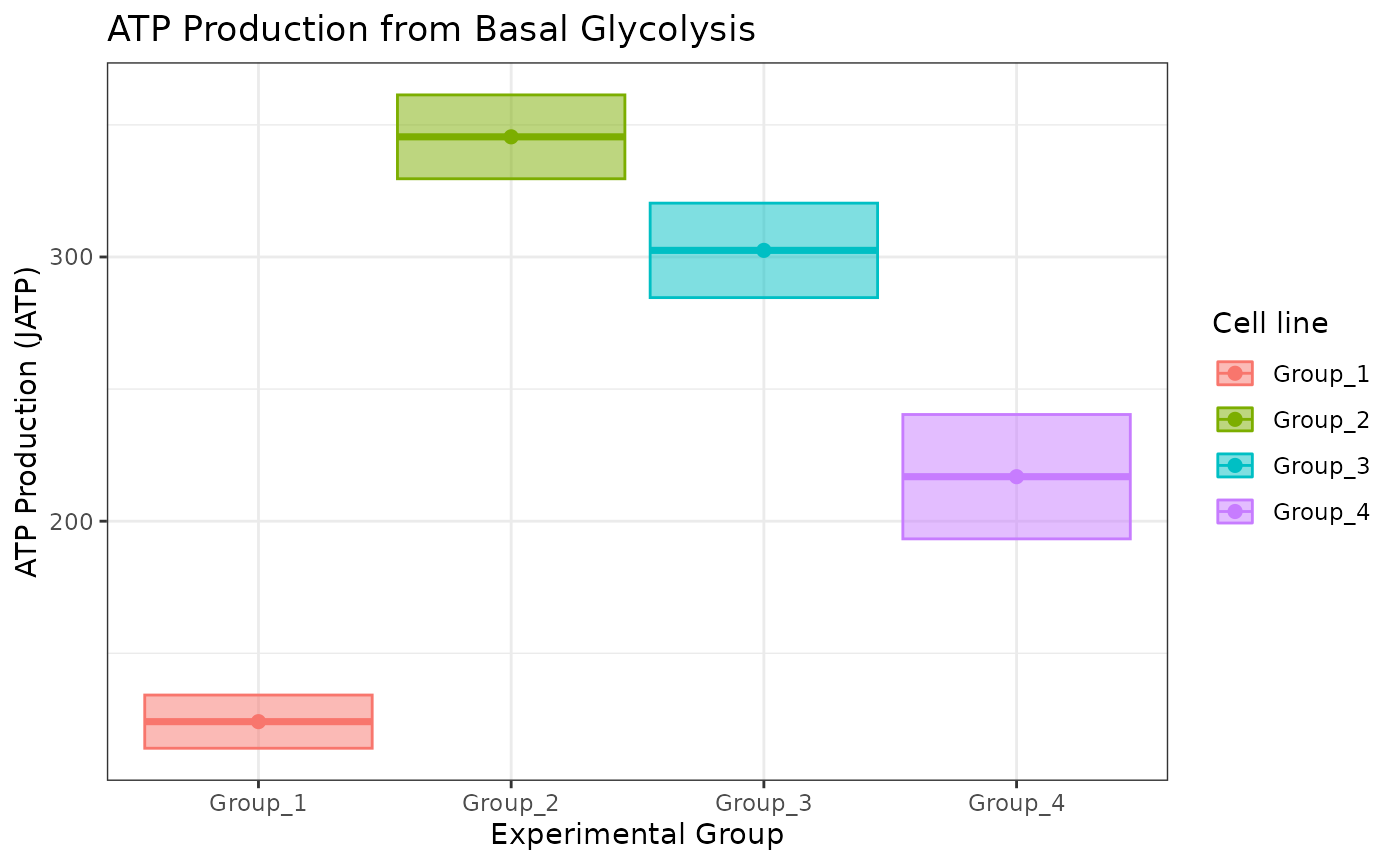
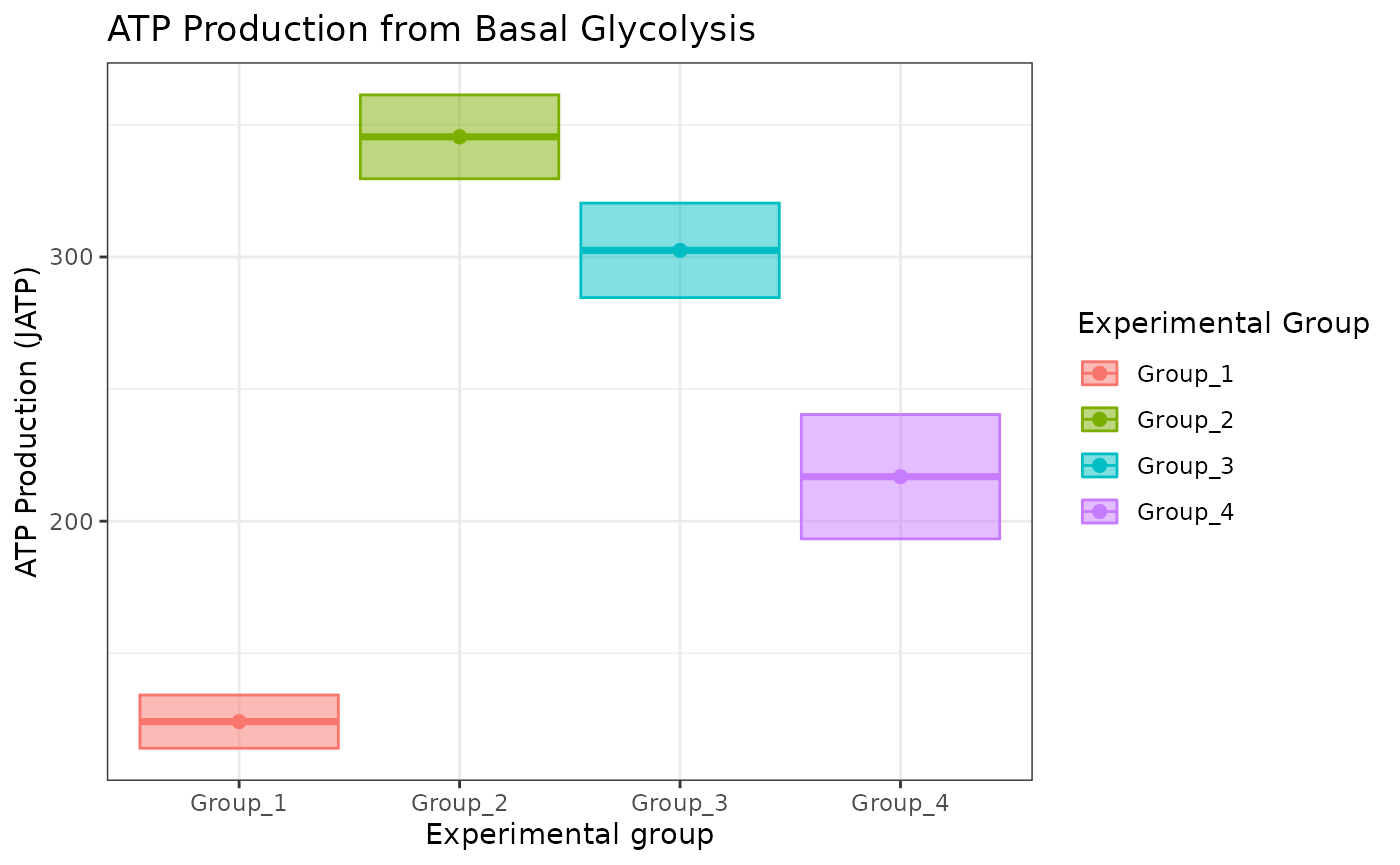
Deploying to gh-pages from @ jamespeapen/ceas@48e0c2bb76270c7f8222b87823735ef20e5b8fb0 🚀

diff --git a/dev/articles/ceas.html b/dev/articles/ceas.html
@@ -215,7 +215,7 @@ ceas.</p>
 <th align="right">OCR</th>
 <th align="right">ECAR</th>
 <th align="right">PER</th>
-<th align="left">cell_line</th>
+<th align="left">exp_group</th>
 <th align="left">assay_type</th>
 <th align="right">replicate</th>
 </tr></thead>
@@ -542,36 +542,33 @@ own custom plotting functions on those datasets.</p>
 <code class="sourceCode R"><span><span class="va">rate_plot</span></span></code></pre></div>
 <div class="sourceCode" id="cb22"><pre class="downlit sourceCode r">
 <code class="sourceCode R"><span><span class="kw">function</span> <span class="op">(</span><span class="va">seahorse_rates</span>, <span class="va">measure</span> <span class="op">=</span> <span class="st">"OCR"</span>, <span class="va">error_bar</span> <span class="op">=</span> <span class="st">"ci"</span>, </span>
-<span>    <span class="va">conf_int</span> <span class="op">=</span> <span class="fl">0.95</span><span class="op">)</span> </span>
+<span>    <span class="va">conf_int</span> <span class="op">=</span> <span class="fl">0.95</span>, <span class="va">group_label</span> <span class="op">=</span> <span class="st">"Experimental group"</span><span class="op">)</span> </span>
 <span><span class="op">{</span></span>
-<span>    <span class="kw">if</span> <span class="op">(</span><span class="op">!</span><span class="va">measure</span> <span class="op"><a href="https://rdrr.io/r/base/match.html" class="external-link">%in%</a></span> <span class="fu"><a href="https://rdrr.io/r/base/c.html" class="external-link">c</a></span><span class="op">(</span><span class="st">"OCR"</span>, <span class="st">"ECAR"</span><span class="op">)</span><span class="op">)</span> <span class="op">{</span></span>
-<span>        <span class="kw"><a href="https://rdrr.io/r/base/stop.html" class="external-link">stop</a></span><span class="op">(</span><span class="st">"'measure' should be 'OCR' or 'ECAR'"</span><span class="op">)</span></span>
-<span>    <span class="op">}</span></span>
-<span>    <span class="kw">if</span> <span class="op">(</span><span class="op">!</span><span class="va">error_bar</span> <span class="op"><a href="https://rdrr.io/r/base/match.html" class="external-link">%in%</a></span> <span class="fu"><a href="https://rdrr.io/r/base/c.html" class="external-link">c</a></span><span class="op">(</span><span class="st">"sd"</span>, <span class="st">"ci"</span><span class="op">)</span><span class="op">)</span> <span class="op">{</span></span>
-<span>        <span class="kw"><a href="https://rdrr.io/r/base/stop.html" class="external-link">stop</a></span><span class="op">(</span><span class="st">"'error_bar' should be 'sd' or 'ci'"</span><span class="op">)</span></span>
-<span>    <span class="op">}</span></span>
-<span>    <span class="kw">if</span> <span class="op">(</span><span class="va">conf_int</span> <span class="op">&lt;</span> <span class="fl">0</span> <span class="op">||</span> <span class="va">conf_int</span> <span class="op">&gt;</span> <span class="fl">1</span><span class="op">)</span> <span class="op">{</span></span>
-<span>        <span class="kw"><a href="https://rdrr.io/r/base/stop.html" class="external-link">stop</a></span><span class="op">(</span><span class="st">"'conf_int' should be between 0 and 1"</span><span class="op">)</span></span>
-<span>    <span class="op">}</span></span>
+<span>    <span class="fu"><a href="https://rdrr.io/r/base/stopifnot.html" class="external-link">stopifnot</a></span><span class="op">(</span>`'measure' should be 'OCR' or 'ECAR'` <span class="op">=</span> <span class="va">measure</span> <span class="op"><a href="https://rdrr.io/r/base/match.html" class="external-link">%in%</a></span> </span>
+<span>        <span class="fu"><a href="https://rdrr.io/r/base/c.html" class="external-link">c</a></span><span class="op">(</span><span class="st">"OCR"</span>, <span class="st">"ECAR"</span><span class="op">)</span><span class="op">)</span></span>
+<span>    <span class="fu"><a href="https://rdrr.io/r/base/stopifnot.html" class="external-link">stopifnot</a></span><span class="op">(</span>`'error_bar' should be 'sd' or 'ci'` <span class="op">=</span> <span class="va">error_bar</span> <span class="op"><a href="https://rdrr.io/r/base/match.html" class="external-link">%in%</a></span> </span>
+<span>        <span class="fu"><a href="https://rdrr.io/r/base/c.html" class="external-link">c</a></span><span class="op">(</span><span class="st">"sd"</span>, <span class="st">"ci"</span><span class="op">)</span><span class="op">)</span></span>
+<span>    <span class="fu"><a href="https://rdrr.io/r/base/stopifnot.html" class="external-link">stopifnot</a></span><span class="op">(</span>`'conf_int' should be between 0 and 1` <span class="op">=</span> <span class="va">conf_int</span> <span class="op">&gt;</span> </span>
+<span>        <span class="fl">0</span> <span class="op">&amp;&amp;</span> <span class="va">conf_int</span> <span class="op">&lt;</span> <span class="fl">1</span><span class="op">)</span></span>
 <span>    <span class="va">data_cols</span> <span class="op">&lt;-</span> <span class="fu"><a href="https://rdrr.io/r/base/c.html" class="external-link">c</a></span><span class="op">(</span><span class="st">"Measurement"</span>, <span class="st">"Well"</span>, <span class="st">"OCR"</span>, <span class="st">"ECAR"</span>, <span class="st">"PER"</span>, </span>
-<span>        <span class="st">"cell_line"</span>, <span class="st">"assay_type"</span>, <span class="st">"replicate"</span><span class="op">)</span></span>
+<span>        <span class="st">"exp_group"</span>, <span class="st">"assay_type"</span>, <span class="st">"replicate"</span><span class="op">)</span></span>
 <span>    <span class="va">missing_cols</span> <span class="op">&lt;-</span> <span class="fu"><a href="https://rdrr.io/r/base/sets.html" class="external-link">setdiff</a></span><span class="op">(</span><span class="va">data_cols</span>, <span class="fu"><a href="https://rdrr.io/r/base/colnames.html" class="external-link">colnames</a></span><span class="op">(</span><span class="va">seahorse_rates</span><span class="op">)</span><span class="op">)</span></span>
 <span>    <span class="kw">if</span> <span class="op">(</span><span class="fu"><a href="https://rdrr.io/r/base/length.html" class="external-link">length</a></span><span class="op">(</span><span class="va">missing_cols</span><span class="op">)</span> <span class="op">!=</span> <span class="fl">0</span><span class="op">)</span> <span class="op">{</span></span>
 <span>        <span class="kw"><a href="https://rdrr.io/r/base/stop.html" class="external-link">stop</a></span><span class="op">(</span><span class="fu"><a href="https://rdrr.io/r/base/paste.html" class="external-link">paste0</a></span><span class="op">(</span><span class="st">"'"</span>, <span class="va">missing_cols</span>, <span class="st">"'"</span>, <span class="st">" column was not found in input data\n"</span><span class="op">)</span><span class="op">)</span></span>
 <span>    <span class="op">}</span></span>
 <span>    <span class="va">Measurement</span> <span class="op">&lt;-</span> <span class="cn">NULL</span></span>
-<span>    <span class="va">cell_line</span> <span class="op">&lt;-</span> <span class="cn">NULL</span></span>
+<span>    <span class="va">exp_group</span> <span class="op">&lt;-</span> <span class="cn">NULL</span></span>
 <span>    <span class="va">lower_bound</span> <span class="op">&lt;-</span> <span class="cn">NULL</span></span>
 <span>    <span class="va">upper_bound</span> <span class="op">&lt;-</span> <span class="cn">NULL</span></span>
 <span>    <span class="va">plot_data</span> <span class="op">&lt;-</span> <span class="fu"><a href="../reference/get_rate_summary.html">get_rate_summary</a></span><span class="op">(</span><span class="va">seahorse_rates</span>, <span class="va">measure</span>, <span class="va">error_bar</span>, </span>
 <span>        <span class="va">conf_int</span><span class="op">)</span></span>
 <span>    <span class="va">y_labels</span> <span class="op">&lt;-</span> <span class="fu"><a href="https://rdrr.io/r/base/list.html" class="external-link">list</a></span><span class="op">(</span>OCR <span class="op">=</span> <span class="st">"OCR (pmol/min)"</span>, ECAR <span class="op">=</span> <span class="st">"ECAR (mpH/min)"</span><span class="op">)</span></span>
-<span>    <span class="fu">ggplot</span><span class="op">(</span><span class="va">plot_data</span>, <span class="fu">aes</span><span class="op">(</span>x <span class="op">=</span> <span class="va">Measurement</span>, y <span class="op">=</span> <span class="va">mean</span>, color <span class="op">=</span> <span class="va">cell_line</span>, </span>
-<span>        group <span class="op">=</span> <span class="va">cell_line</span>, fill <span class="op">=</span> <span class="va">cell_line</span><span class="op">)</span><span class="op">)</span> <span class="op">+</span> <span class="fu">geom_line</span><span class="op">(</span>size <span class="op">=</span> <span class="fl">2</span><span class="op">)</span> <span class="op">+</span> </span>
+<span>    <span class="fu">ggplot</span><span class="op">(</span><span class="va">plot_data</span>, <span class="fu">aes</span><span class="op">(</span>x <span class="op">=</span> <span class="va">Measurement</span>, y <span class="op">=</span> <span class="va">mean</span>, color <span class="op">=</span> <span class="va">exp_group</span>, </span>
+<span>        group <span class="op">=</span> <span class="va">exp_group</span>, fill <span class="op">=</span> <span class="va">exp_group</span><span class="op">)</span><span class="op">)</span> <span class="op">+</span> <span class="fu">geom_line</span><span class="op">(</span>size <span class="op">=</span> <span class="fl">2</span><span class="op">)</span> <span class="op">+</span> </span>
 <span>        <span class="fu">geom_ribbon</span><span class="op">(</span><span class="fu">aes</span><span class="op">(</span>ymin <span class="op">=</span> <span class="va">lower_bound</span>, ymax <span class="op">=</span> <span class="va">upper_bound</span><span class="op">)</span>, </span>
 <span>            alpha <span class="op">=</span> <span class="fl">0.2</span>, color <span class="op">=</span> <span class="cn">NA</span><span class="op">)</span> <span class="op">+</span> <span class="fu">scale_x_continuous</span><span class="op">(</span>breaks <span class="op">=</span> <span class="fu"><a href="https://rdrr.io/r/base/seq.html" class="external-link">seq</a></span><span class="op">(</span><span class="fl">1</span>, </span>
 <span>        <span class="fl">12</span>, by <span class="op">=</span> <span class="fl">1</span><span class="op">)</span><span class="op">)</span> <span class="op">+</span> <span class="fu">xlab</span><span class="op">(</span><span class="st">"Measurement"</span><span class="op">)</span> <span class="op">+</span> <span class="fu">ylab</span><span class="op">(</span><span class="va">y_labels</span><span class="op">[</span><span class="va">measure</span><span class="op">]</span><span class="op">)</span> <span class="op">+</span> </span>
-<span>        <span class="fu">labs</span><span class="op">(</span>color <span class="op">=</span> <span class="st">"Cell line"</span>, fill <span class="op">=</span> <span class="st">"Cell line"</span><span class="op">)</span> <span class="op">+</span> <span class="fu">theme_bw</span><span class="op">(</span><span class="op">)</span></span>
+<span>        <span class="fu">labs</span><span class="op">(</span>color <span class="op">=</span> <span class="va">group_label</span>, fill <span class="op">=</span> <span class="va">group_label</span><span class="op">)</span> <span class="op">+</span> <span class="fu">theme_bw</span><span class="op">(</span><span class="op">)</span></span>
 <span><span class="op">}</span></span></code></pre></div>
 <p>In RStudio, you can run <code><a href="https://rdrr.io/r/utils/edit.html" class="external-link">utils::edit</a></code> to modify a
 function.</p>
@@ -589,7 +586,7 @@ Mookerjee, Shona A., Akos A. Gerencser, David G. Nicholls, and Martin D.
 Brand. 2017. <span>“Quantifying Intracellular Rates of Glycolytic and
 Oxidative ATP Production and Consumption Using Extracellular Flux
 Measurements.”</span> <em>Journal of Biological Chemistry</em> 292 (17):
-7189–7207. https://doi.org/<a href="https://doi.org/10.1074/jbc.M116.774471" class="external-link">https://doi.org/10.1074/jbc.M116.774471</a>.
+7189–7207. <a href="https://doi.org/10.1074/jbc.M116.774471" class="external-link">https://doi.org/10.1074/jbc.M116.774471</a>.
 </div>
 </div>
 </div>

diff --git a/dev/reference/get_energetics_summary.html b/dev/reference/get_energetics_summary.html
@@ -96,13 +96,13 @@ using the <code>get_energetics</code> function</p>
 <span class="r-in"><span><span class="va">energetics_list</span> <span class="op">&lt;-</span> <span class="fu"><a href="get_energetics.html">get_energetics</a></span><span class="op">(</span><span class="va">partitioned_data</span>, ph <span class="op">=</span> <span class="fl">7.4</span>, pka <span class="op">=</span> <span class="fl">6.093</span>, buffer <span class="op">=</span> <span class="fl">0.1</span><span class="op">)</span></span></span>
 <span class="r-in"><span><span class="va">energetics_summary</span> <span class="op">&lt;-</span> <span class="fu">get_energetics_summary</span><span class="op">(</span><span class="va">energetics_list</span><span class="op">)</span></span></span>
 <span class="r-in"><span><span class="fu"><a href="https://rdrr.io/r/utils/head.html" class="external-link">head</a></span><span class="op">(</span><span class="va">energetics_summary</span><span class="op">[</span>, <span class="fu"><a href="https://rdrr.io/r/base/c.html" class="external-link">c</a></span><span class="op">(</span><span class="fl">1</span><span class="op">:</span><span class="fl">5</span><span class="op">)</span><span class="op">]</span>, n <span class="op">=</span> <span class="fl">10</span><span class="op">)</span></span></span>
-<span class="r-out co"><span class="r-pr">#&gt;</span>    cell_line count ATP_basal_resp.mean ATP_basal_resp.sd ATP_basal_resp.se</span>
+<span class="r-out co"><span class="r-pr">#&gt;</span>    exp_group count ATP_basal_resp.mean ATP_basal_resp.sd ATP_basal_resp.se</span>
 <span class="r-out co"><span class="r-pr">#&gt;</span> 1:   Group_1    22            916.9071          60.22935         12.840940</span>
 <span class="r-out co"><span class="r-pr">#&gt;</span> 2:   Group_2    24            947.7950          34.48831          7.039897</span>
 <span class="r-out co"><span class="r-pr">#&gt;</span> 3:   Group_3    24           1098.4939          43.78564          8.937706</span>
 <span class="r-out co"><span class="r-pr">#&gt;</span> 4:   Group_4    22            523.5337          70.74827         15.083581</span>
 <span class="r-in"><span><span class="fu"><a href="https://rdrr.io/r/utils/head.html" class="external-link">head</a></span><span class="op">(</span><span class="va">energetics_summary</span><span class="op">[</span>, <span class="fu"><a href="https://rdrr.io/r/base/c.html" class="external-link">c</a></span><span class="op">(</span><span class="fl">1</span>, <span class="fl">2</span>, <span class="fl">6</span>, <span class="fl">7</span><span class="op">)</span><span class="op">]</span>, n <span class="op">=</span> <span class="fl">10</span><span class="op">)</span></span></span>
-<span class="r-out co"><span class="r-pr">#&gt;</span>    cell_line count ATP_basal_resp.lower_bound ATP_basal_resp.higher_bound</span>
+<span class="r-out co"><span class="r-pr">#&gt;</span>    exp_group count ATP_basal_resp.lower_bound ATP_basal_resp.higher_bound</span>
 <span class="r-out co"><span class="r-pr">#&gt;</span> 1:   Group_1    22                   891.7393                    942.0748</span>
 <span class="r-out co"><span class="r-pr">#&gt;</span> 2:   Group_2    24                   933.9971                    961.5930</span>
 <span class="r-out co"><span class="r-pr">#&gt;</span> 3:   Group_3    24                  1080.9763                   1116.0114</span>

diff --git a/dev/articles/atp_calculation.html b/dev/articles/atp_calculation.html
@@ -91,7 +91,52 @@
     
 <div class="sourceCode" id="cb1"><pre class="downlit sourceCode r">
 <code class="sourceCode R"><span><span class="kw"><a href="https://rdrr.io/r/base/library.html" class="external-link">library</a></span><span class="op">(</span><span class="va"><a href="https://jamespeapen.github.io/ceas/">ceas</a></span><span class="op">)</span></span></code></pre></div>
-<p><img src="mito_glyco_tests.png" title="GLYCO and MITO stress tests"></p>
+<!--Needed to load the mchem library for correct chemical equation rendering-->
+<script>
+window.MathJax = {
+  tex: {
+    // inlineMath: [['$', '$'], ['\\(', '\\)']],
+    packages: {'[+]': ['mhchem']}
+  },
+  loader: {load: ['[tex]/mhchem']},
+};
+</script><script id="MathJax-script" async src="https://cdn.jsdelivr.net/npm/mathjax@3/es5/tex-mml-chtml.js"></script><!----><p><img src="mito_glyco_tests.png" title="GLYCO and MITO stress tests"></p>
+<p>Proton production rate (PPR):</p>
+<p><span class="math display">\[\text{PPR} = \frac{\text{ECAR
+value}}{\text{buffer}}\]</span></p>
+<p><span class="math display">\[\text{PPR}_{\text{mito}} =
+\frac{10^{\text{pH}-\text{pK}_a}}{1+10^{\text{pH}-\text{pK}_a}} \cdot
+\frac{\text{H}^+}{\text{O}_2} \cdot \text{OCR}\]</span></p>
+<p>Calculates the proton production from glucose during its conversion
+to bicarbonate and assuming max <span class="math inline">\(\frac{\ce{H}^+}{\ce{O2}}\)</span> of 1</p>
+<p><span class="math display">\[\text{PPR}_\text{glyc} = \text{PPR} -
+\text{PPR}_\text{resp}\]</span></p>
+<p><span class="math display">\[
+\ce{2H2 + O2 -&gt; 2H2O}
+\]</span></p>
+<p>Calculates the proton production from glucose during its conversion
+to <span class="math inline">\(\ce{lactate + H+}\)</span>.</p>
+<p>Joules of ATP (JATP) production:</p>
+<p><span class="math display">\[
+\text{ATP}_{\text{glyc}} = \Bigl(\text{PPR}_\text{glyc} \cdot
+\frac{\text{ATP}}{\text{lactate}}\Bigl) + \Bigl(\text{MITO}_\text{resp}
+\cdot 2 \cdot \frac{\text{P}}{\text{O}_\text{glyc}}\Bigl)
+\]</span></p>
+<p><span class="math display">\[
+\frac{\text{ATP}}{\text{lactate}} = 1
+\]</span></p>
+<p>with <span class="math inline">\(\frac{\text{P}}{{\text{O}_\text{glyc}}}\)</span> =
+0.167 for glucose (0.242 for glycogen).</p>
+<p><span class="math display">\[
+\text{ATP}_\text{resp} =
+\Bigl(\text{coupled MITO}_\text{resp} \cdot 2 \cdot
+\frac{\text{P}}{\text{O}_\text{oxphos}}\Bigl) +
+\Bigl(\text{MITO}_\text{resp} \cdot 2 \cdot
+\frac{\text{P}}{\text{O}_\text{TCA}}\Bigl)
+\]</span></p>
+<p>with <span class="math inline">\(\frac{\text{P}}{{\text{O}_\text{oxphos}}}\)</span>
+= 2.486 and <span class="math inline">\(\frac{\text{P}}{{\text{O}_\text{TCA}}}\)</span> =
+0.167.</p>
   </main>
 </div>
 

diff --git a/dev/reference/get_energetics.html b/dev/reference/get_energetics.html
@@ -125,7 +125,7 @@ with \(\frac{\text{P}}{{\text{O}_\text{oxphos}}}\)  = 2.486 and \(\frac{\text{P}
 <span class="r-in"><span><span class="va">partitioned_data</span> <span class="op">&lt;-</span> <span class="fu"><a href="partition_data.html">partition_data</a></span><span class="op">(</span><span class="va">seahorse_rates</span><span class="op">)</span></span></span>
 <span class="r-in"><span><span class="va">energetics</span> <span class="op">&lt;-</span> <span class="fu">get_energetics</span><span class="op">(</span><span class="va">partitioned_data</span>, ph <span class="op">=</span> <span class="fl">7.4</span>, pka <span class="op">=</span> <span class="fl">6.093</span>, buffer <span class="op">=</span> <span class="fl">0.1</span><span class="op">)</span></span></span>
 <span class="r-in"><span><span class="fu"><a href="https://rdrr.io/r/utils/head.html" class="external-link">head</a></span><span class="op">(</span><span class="va">energetics</span>, n <span class="op">=</span> <span class="fl">10</span><span class="op">)</span></span></span>
-<span class="r-out co"><span class="r-pr">#&gt;</span>     cell_line ATP_basal_resp ATP_max_resp ATP_basal_glyc ATP_max_glyc</span>
+<span class="r-out co"><span class="r-pr">#&gt;</span>     exp_group ATP_basal_resp ATP_max_resp ATP_basal_glyc ATP_max_glyc</span>
 <span class="r-out co"><span class="r-pr">#&gt;</span>  1:   Group_1       903.4178     944.6157      176.42439     524.6518</span>
 <span class="r-out co"><span class="r-pr">#&gt;</span>  2:   Group_1       900.2175     937.5181      129.69559     442.5421</span>
 <span class="r-out co"><span class="r-pr">#&gt;</span>  3:   Group_1      1027.9860    1072.8032      141.43402     472.4431</span>

diff --git a/dev/reference/read_data.html b/dev/reference/read_data.html
@@ -88,7 +88,7 @@ sheet 2</p></dd>
 <span class="r-in"><span>  <span class="fu"><a href="https://rdrr.io/r/base/list.files.html" class="external-link">list.files</a></span><span class="op">(</span>pattern <span class="op">=</span> <span class="st">"*.xlsx"</span>, full.names <span class="op">=</span> <span class="cn">TRUE</span><span class="op">)</span></span></span>
 <span class="r-in"><span><span class="va">seahorse_rates</span> <span class="op">&lt;-</span> <span class="fu">read_data</span><span class="op">(</span><span class="va">rep_list</span>, sheet <span class="op">=</span> <span class="fl">2</span><span class="op">)</span></span></span>
 <span class="r-in"><span><span class="fu"><a href="https://rdrr.io/r/utils/head.html" class="external-link">head</a></span><span class="op">(</span><span class="va">seahorse_rates</span>, n <span class="op">=</span> <span class="fl">10</span><span class="op">)</span></span></span>
-<span class="r-out co"><span class="r-pr">#&gt;</span>     Measurement Well     Time      OCR     ECAR      PER  cell_line assay_type</span>
+<span class="r-out co"><span class="r-pr">#&gt;</span>     Measurement Well     Time      OCR     ECAR      PER  exp_group assay_type</span>
 <span class="r-out co"><span class="r-pr">#&gt;</span>  1:           1  A01 1.304765   0.0000  0.00000   0.0000 Background       &lt;NA&gt;</span>
 <span class="r-out co"><span class="r-pr">#&gt;</span>  2:           1  A02 1.304765 305.2426 30.64529 334.4771    Group_1       MITO</span>
 <span class="r-out co"><span class="r-pr">#&gt;</span>  3:           1  A03 1.304765 307.9862 33.27668 358.4754    Group_1       MITO</span>

diff --git a/dev/reference/rate_plot.html b/dev/reference/rate_plot.html
@@ -57,7 +57,13 @@
 
     <div class="section level2">
     <h2 id="ref-usage">Usage<a class="anchor" aria-label="anchor" href="#ref-usage"></a></h2>
-    <div class="sourceCode"><pre class="sourceCode r"><code><span><span class="fu">rate_plot</span><span class="op">(</span><span class="va">seahorse_rates</span>, measure <span class="op">=</span> <span class="st">"OCR"</span>, error_bar <span class="op">=</span> <span class="st">"ci"</span>, conf_int <span class="op">=</span> <span class="fl">0.95</span><span class="op">)</span></span></code></pre></div>
+    <div class="sourceCode"><pre class="sourceCode r"><code><span><span class="fu">rate_plot</span><span class="op">(</span></span>
+<span>  <span class="va">seahorse_rates</span>,</span>
+<span>  measure <span class="op">=</span> <span class="st">"OCR"</span>,</span>
+<span>  error_bar <span class="op">=</span> <span class="st">"ci"</span>,</span>
+<span>  conf_int <span class="op">=</span> <span class="fl">0.95</span>,</span>
+<span>  group_label <span class="op">=</span> <span class="st">"Experimental group"</span></span>
+<span><span class="op">)</span></span></code></pre></div>
     </div>
 
     <div class="section level2">
@@ -76,6 +82,10 @@
 
 <dt>conf_int</dt>
 <dd><p>The confidence interval percentage. Should be between 0 and 1</p></dd>
+
+
+<dt>group_lab</dt>
+<dd><p>Label for the experimental group to populate the legend title</p></dd>
 
 </dl></div>
     <div class="section level2">

diff --git a/dev/reference/get_rate_summary.html b/dev/reference/get_rate_summary.html
@@ -102,7 +102,7 @@
 <span class="r-in"><span>  conf_int <span class="op">=</span> <span class="fl">0.95</span></span></span>
 <span class="r-in"><span><span class="op">)</span></span></span>
 <span class="r-in"><span><span class="fu"><a href="https://rdrr.io/r/utils/head.html" class="external-link">head</a></span><span class="op">(</span><span class="va">rates</span>, n <span class="op">=</span> <span class="fl">10</span><span class="op">)</span></span></span>
-<span class="r-out co"><span class="r-pr">#&gt;</span>     cell_line Measurement     mean       sd       se lower_bound upper_bound</span>
+<span class="r-out co"><span class="r-pr">#&gt;</span>     exp_group Measurement     mean       sd       se lower_bound upper_bound</span>
 <span class="r-out co"><span class="r-pr">#&gt;</span>  1:   Group_1           1 306.4486 17.65435 2.661494    301.2322    311.6650</span>
 <span class="r-out co"><span class="r-pr">#&gt;</span>  2:   Group_2           1 363.0852 23.20204 3.348926    356.5215    369.6490</span>
 <span class="r-out co"><span class="r-pr">#&gt;</span>  3:   Group_3           1 409.0223 28.67433 4.138782    400.9104    417.1342</span>

diff --git a/dev/reference/atp_plot.html b/dev/reference/atp_plot.html
@@ -64,7 +64,8 @@
 <span>  size <span class="op">=</span> <span class="fl">2</span>,</span>
 <span>  shape <span class="op">=</span> <span class="fl">21</span>,</span>
 <span>  basal_vs_max <span class="op">=</span> <span class="st">"basal"</span>,</span>
-<span>  glyc_vs_resp <span class="op">=</span> <span class="st">"glyc"</span></span>
+<span>  glyc_vs_resp <span class="op">=</span> <span class="st">"glyc"</span>,</span>
+<span>  group_label <span class="op">=</span> <span class="st">"Experimental group"</span></span>
 <span><span class="op">)</span></span></code></pre></div>
     </div>
 
@@ -98,6 +99,10 @@ or confidence intervals (<code>"ci"</code>)</p></dd>
 
 <dt>glyc_vs_resp</dt>
 <dd><p>Whether to plot glycolysis (<code>"glyc"</code>)  or respiration (<code>"resp"</code>)</p></dd>
+
+
+<dt>group_label</dt>
+<dd><p>Label for the experimental group to populate the legend title</p></dd>
 
 </dl></div>
     <div class="section level2">

diff --git a/dev/reference/bioscope_plot.html b/dev/reference/bioscope_plot.html
@@ -63,7 +63,8 @@
 <span>  conf_int <span class="op">=</span> <span class="fl">0.95</span>,</span>
 <span>  size <span class="op">=</span> <span class="fl">2</span>,</span>
 <span>  basal_shape <span class="op">=</span> <span class="fl">1</span>,</span>
-<span>  max_shape <span class="op">=</span> <span class="fl">19</span></span>
+<span>  max_shape <span class="op">=</span> <span class="fl">19</span>,</span>
+<span>  group_label <span class="op">=</span> <span class="st">"Experimental Group"</span></span>
 <span><span class="op">)</span></span></code></pre></div>
     </div>
 
@@ -93,6 +94,10 @@ or confidence intervals (<code>"ci"</code>)</p></dd>
 
 <dt>max_shape</dt>
 <dd><p>Shape of the points for max values</p></dd>
+
+
+<dt>group_label</dt>
+<dd><p>Label for the experimental group to populate the legend title</p></dd>
 
 
 <dt>bioscope_plot</dt>
